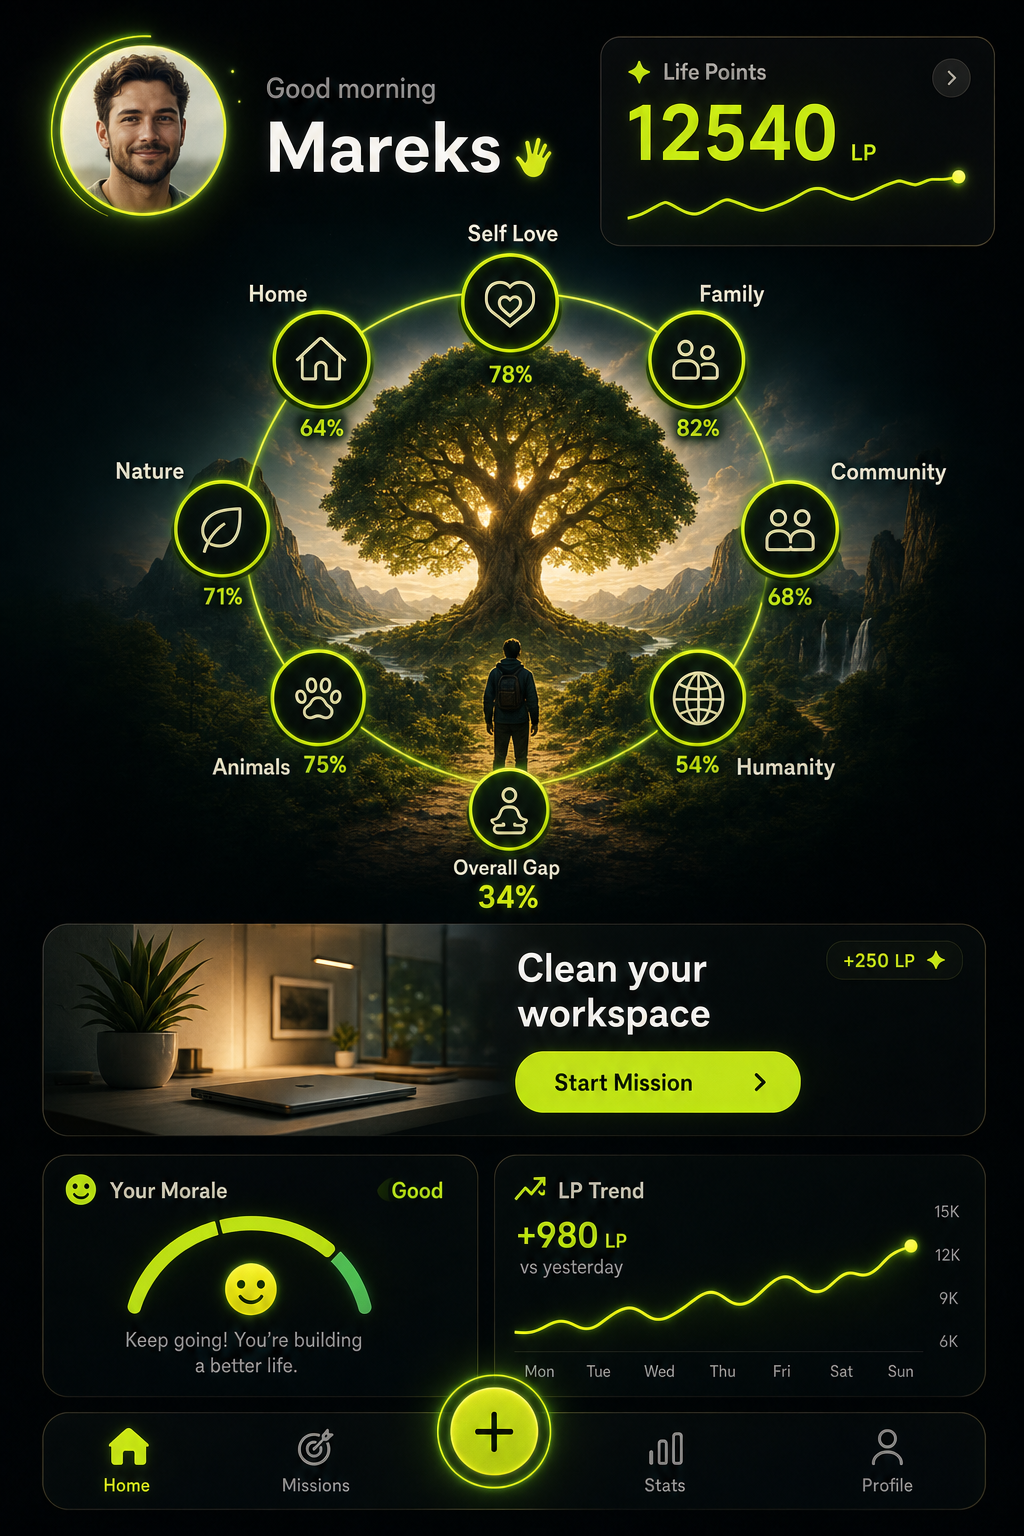
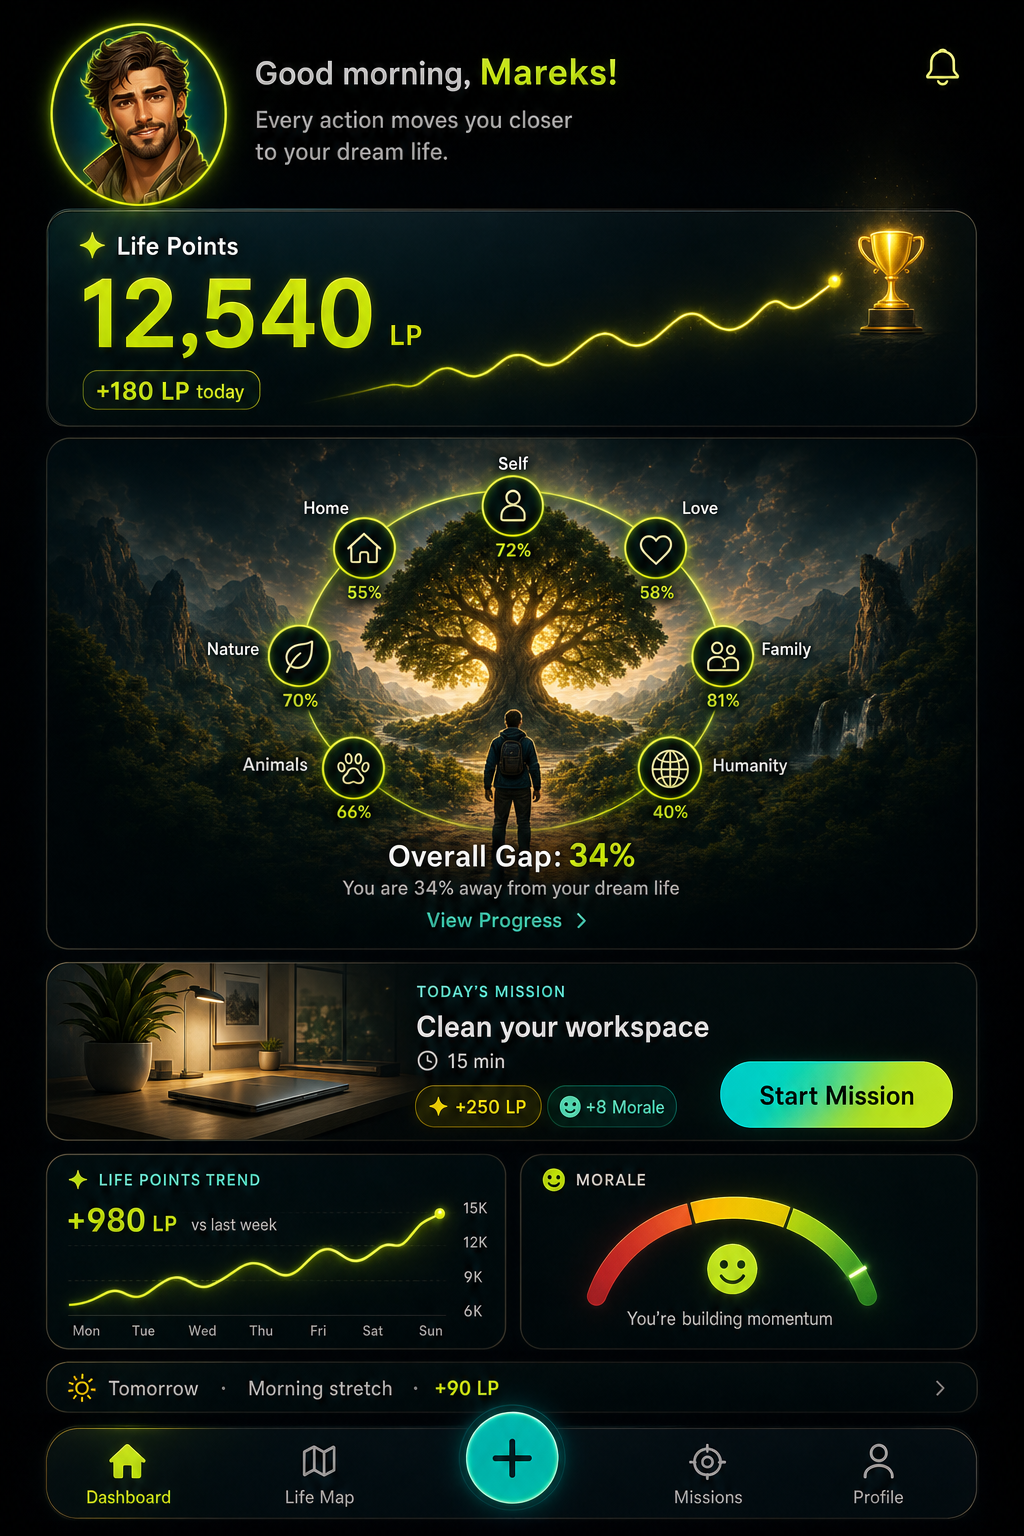
Refine LifePoints board mockups to locked home and game rules
Align Home, Life Map, Gap, Mission, Settings, and landing with the
canonical dark teal/gold board: correct eight map nodes, Overall Gap
copy, no-streak mission UI, Woman map variant, bottom-nav partial,
and tighter design-system / Rails follow-up notes.

diff --git a/docs/design/mockups/README.md b/docs/design/mockups/README.md
@@ -1,32 +1,38 @@
 # LifePoints mockups index
 
-High-fidelity concepts for the Close-the-Gap redesign. Visual system: [`DESIGN_SYSTEM.md`](DESIGN_SYSTEM.md).
+High-fidelity concepts for the Close-the-Gap redesign. Visual system: [`DESIGN_SYSTEM.md`](../DESIGN_SYSTEM.md).
 
-| File | Screen |
-|------|--------|
-| `01-character-select.png` | Onboarding — Choose Man / Woman |
-| `02-home-dashboard.png` | Home / Dashboard (canonical) |
-| `03-life-map.png` | Full Life Map |
-| `04-area-detail.png` | Life Area detail |
-| `05-gap-comparison.png` | Ideal vs Present / Gap |
-| `06-daily-mission.png` | Daily Mission |
-| `07-mission-complete.png` | Mission celebration |
-| `08-level-up.png` | Level Up |
-| `09-tree-of-life.png` | Tree of Life progress |
-| `10-dream-wizard.png` | Dream creation wizard |
-| `11-landing-desktop.png` | Landing desktop |
-| `12-planning.png` | Planning |
-| `13-achievements.png` | Achievements |
-| `14-profile.png` | Profile |
-| `15-settings.png` | Settings |
-| `16-pricing.png` | Pricing |
-| `17-community.png` | Community |
-| `18-statistics.png` | Statistics |
-| `19-weekly-review.png` | Weekly review |
-| `20-year-review.png` | Year review |
-| `21-landing-mobile.png` | Landing mobile |
-| `22-area-progress-stack.png` | Multi-area progress |
-| `character-man.png` | Man avatar asset |
-| `character-woman.png` | Woman avatar asset |
+**Canonical Home** (locked board): `02-home-dashboard.png`  
+**Character:** onboarding `01`, map Man `03`, map Woman `03b`, profile `14`, settings `15`
+
+| File | Screen | Batch |
+|------|--------|-------|
+| `01-character-select.png` | Onboarding — Choose Man / Woman | A |
+| `02-home-dashboard.png` | Home / Dashboard (canonical) | A |
+| `03-life-map.png` | Life Map (Man center) | A |
+| `03b-life-map-woman.png` | Life Map (Woman center) | A |
+| `04-area-detail.png` | Life Area detail | A |
+| `05-gap-comparison.png` | Ideal vs Present / Gap | A |
+| `06-daily-mission.png` | Daily Mission (no streaks) | A |
+| `07-mission-complete.png` | Mission celebration | A |
+| `08-level-up.png` | Level Up | A |
+| `09-tree-of-life.png` | Tree of Life progress | A |
+| `22-area-progress-stack.png` | Multi-area progress meters | A |
+| `10-dream-wizard.png` | Dream creation wizard | B |
+| `12-planning.png` | Planning | B |
+| `13-achievements.png` | Achievements | B |
+| `14-profile.png` | Profile | B |
+| `15-settings.png` | Settings (change character) | B |
+| `16-pricing.png` | Pricing | B |
+| `11-landing-desktop.png` | Landing desktop | C |
+| `21-landing-mobile.png` | Landing mobile | C |
+| `17-community.png` | Community | C |
+| `18-statistics.png` | Statistics | C |
+| `19-weekly-review.png` | Weekly review | C |
+| `20-year-review.png` | Year review | C |
+| `character-man.png` | Man avatar asset | — |
+| `character-woman.png` | Woman avatar asset | — |
 
 Character PNG assets also live in [`app/assets/images/characters/`](../../app/assets/images/characters/).
+
+Production partials (wire later): `_character_picker`, `_lp_bottom_nav`.

diff --git a/docs/design/RAILS_IMPLEMENTATION.md b/docs/design/RAILS_IMPLEMENTATION.md
@@ -5,9 +5,11 @@ Engineering plan to rebuild LifePoints Hotwire/Tailwind UI against the locked de
 ## Phase 0 — Foundations
 
 1. Apply `.lp-game` shell on authenticated app layout (or Today-first), keep legacy studio theme only on unmigrated pages.
-2. CSS tokens already in [`app/assets/tailwind/application.css`](../../app/assets/tailwind/application.css) (`--lp-*`).
+2. CSS tokens already in [`app/assets/tailwind/application.css`](../../app/assets/tailwind/application.css) (`--lp-*`). Utilities: `.lp-glass`, `.lp-cta`, `.lp-avatar-ring`, `.lp-gap-track` / `.lp-gap-fill`, `.lp-bottom-nav`, `.lp-fab`.
 3. Add `users.character` string/enum: `man` | `woman` (nullable until onboarding).
 4. Serve avatars from `app/assets/images/characters/character-{man,woman}.png`.
+5. Mount design partials: [`_character_picker`](../../app/views/shared/_character_picker.html.erb), [`_lp_bottom_nav`](../../app/views/shared/_lp_bottom_nav.html.erb).
+6. **Do not ship streak UI** — omit flame counters; use Overall Gap + Morale only.
 
 ## Phase 1 — Character + Home HUD
 

diff --git a/docs/design/DESIGN_SYSTEM.md b/docs/design/DESIGN_SYSTEM.md
@@ -55,8 +55,18 @@ Locked visual language for the Close-the-Gap redesign. Use these tokens for all 
 
 Self · Love · Family · Community · Humanity · Animals · Nature · Home  
 
+Do **not** merge labels (no “Self Love”) or substitute “Personal Growth”. Overall Gap is a summary meter / chip — never a ninth ring node.
+
 Stages: Seed → Plant → Tree → Forest → Legendary  
+
+## Hard product rules (UI)
+
+- **No streaks.** Gap % and Life Energy / Morale drive emotion — never flame counters or Mon–Sun streak rows.
+- **Bottom nav (locked):** Dashboard · Life Map · **+** FAB · Missions · Profile.
+- **Copy tone:** warm, game-like; gap = distance to dream life, not habit guilt.
+- **Character v1:** Man | Woman only; illustrated portraits (not photos).
 
 ## Screens inventory
 
 See mockups in `docs/design/mockups/` and `docs/design/RAILS_IMPLEMENTATION.md`.
+ Canonical Home: `02-home-dashboard.png`. Map variants: `03-life-map.png` (Man), `03b-life-map-woman.png` (Woman).
